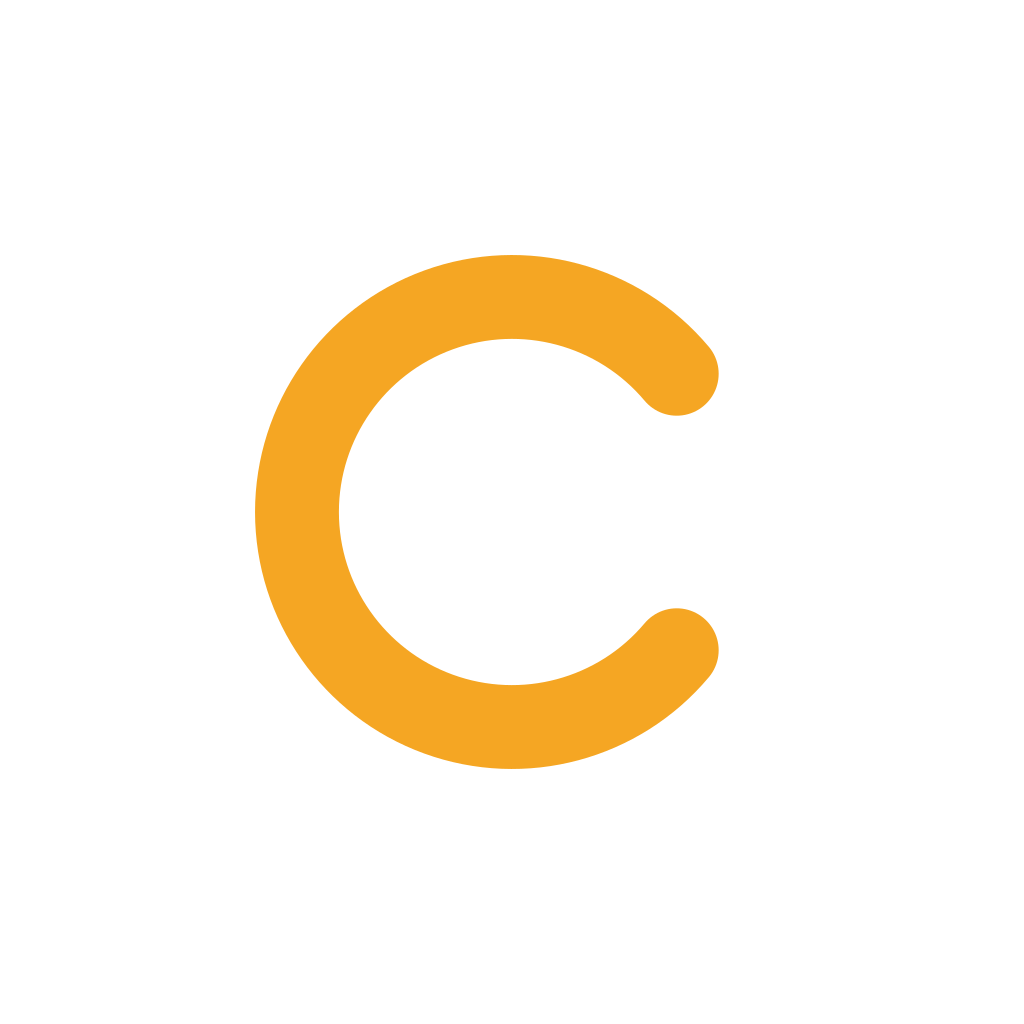
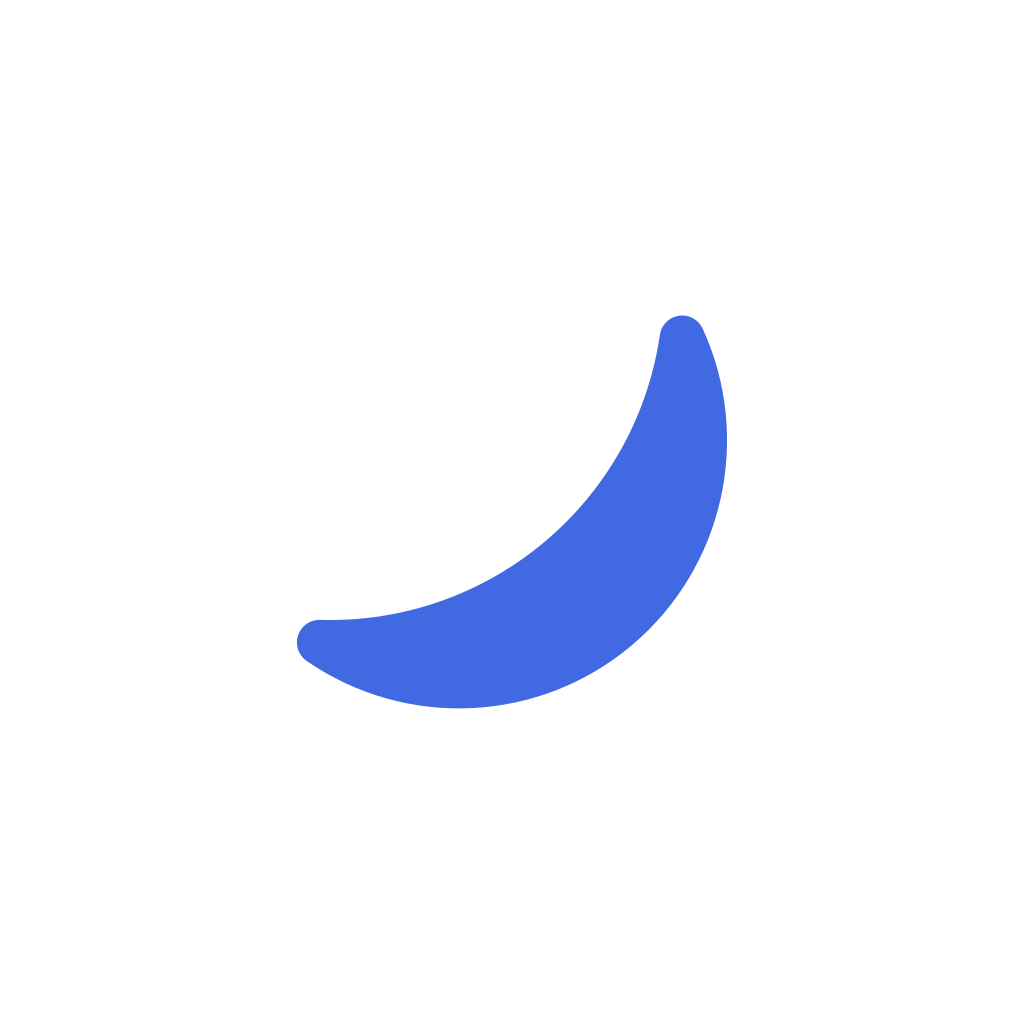
The mark is a banana now, not a C
The old mark was an open ring cut on the right, drawn when the product
was called CreatorDesk. The rename left a wordmark reading "blubanana"
sitting beside a C, which is a mark working against its own name.

It is a banana, in royal blue: two arcs sharing their endpoints, the
inner one with the larger radius so it is flatter and the blade is
thick through the middle and tapers to the tips. That second radius is
the whole difference between a banana and a crescent moon; with both
radii equal this reads as a moon, which is what the first attempt did.

Geometry rather than a letter, for the reason the old generator already
gave: text in an SVG depends on the fonts of whatever machine
rasterises it. The website favicon had ignored that and set the letter
b in `system-ui`, so the tab icon was whatever font the visitor's
operating system supplied, in a blue that predated the royal blue.

Details that came out of looking at it rendered rather than reasoning
about it:

  * The tilt is baked into the endpoints instead of applied as a
    transform. A circular arc is rotation-invariant, so this is exact
    to the pixel, and it drops a `transform-origin` DOM warning that
    react-native-svg's rotation props logged on every render.
  * The stroke is the same colour as the fill and exists only for its
    round join. Needle tips turn to dust at 16px; blunt ones survive.
  * The viewBox is the tilted shape's measured bounding box. The banana
[…]

Changed region(s): [[0.25, 0.25, 0.7188, 0.75]]

diff --git a/platform/components/ui/Mark.tsx b/platform/components/ui/Mark.tsx
@@ -7,35 +7,104 @@ export interface MarkProps {
 }
 
 /**
- * The Blubanana mark: an open ring, cut on the right.
+ * The Blubanana mark: a banana, in royal blue.
  *
- * Reads as a C, but the opening is the point: this is a product about a
- * business loop that does not close on its own.
+ * It replaces an open ring that read as a C, drawn when the product was called
+ * CreatorDesk and left behind by the rename. A wordmark reading "blubanana"
+ * beside a C is a mark working against its own name.
  *
- * The single source of truth for the mark inside the app. The same geometry is
- * generated as PNGs by `scripts/generate-icons.mjs` (app icon, splash,
- * favicon) and inlined into the invoice PDF by `lib/invoiceHtml.ts`. Those
- * three are separate implementations because they render in three environments
- * that share no runtime, but they draw the same arc, from the same numbers,
- * and if one changes the others must too.
+ * Two arcs sharing their endpoints. The inner arc has the *larger* radius, so
+ * it is the flatter of the two and the blade is thick through the middle and
+ * tapers to the tips. That second radius is the whole difference between a
+ * banana and a crescent moon: with both radii equal, this is a moon.
+ *
+ * Geometry rather than a letter, deliberately. Text in an SVG depends on the
+ * fonts of whatever machine rasterises it, so a lettered mark renders
+ * differently on another laptop or in CI. Two arcs are two arcs everywhere.
+ *
+ * The stroke is the same colour as the fill and exists only for its round
+ * join, which blunts what would otherwise be needle tips. Blunt tips survive a
+ * 16px favicon; needle points turn to dust.
+ *
+ * The single source of truth for the mark inside the app. The same numbers are
+ * rasterised to PNGs by `scripts/generate-icons.mjs` (app icon, splash,
+ * favicon), inlined into the invoice PDF by `lib/invoiceHtml.ts`, and drawn
+ * for the website favicon in `website/build.mjs`. Those four are separate
+ * implementations because they render in four environments that share no
+ * runtime, but they draw one shape from one set of numbers, and if any
+ * constant here changes, all four must.
  */
-export function Mark({ size = 24, color = Colors.light.accent }: MarkProps) {
-  const centre = size / 2
-  const radius = size / 2 - size * 0.11
-  // 80° gap centred on the right: the arc runs from +40° to −40° the long way.
-  const gap = (40 * Math.PI) / 180
-  const x = centre + radius * Math.cos(gap)
-  const yTop = centre - radius * Math.sin(gap)
-  const yBottom = centre + radius * Math.sin(gap)
 
+/** Distance between the two tips, in the 100-unit space the path is drawn in. */
+const CHORD = 84
+/** How far the outer edge bows off the line joining the tips. */
+const OUTER_RISE = 32
+/** The same for the inner edge. The difference between them is the thickness. */
+const INNER_RISE = 16
+/** Blunts the cusps. Same colour as the fill; a join, not an outline. */
+const BLUNT = 8
+
+/**
+ * The tilt, already applied to the endpoints below.
+ *
+ * A circular arc is rotation-invariant: turning it moves the endpoints and
+ * leaves the radii and the flags alone. So the banana lies diagonally, the way
+ * a banana sits rather than as a smile, without a transform anywhere. That
+ * matters beyond tidiness — react-native-svg's rotation props emit a
+ * `transform-origin` attribute that React rejects on the web build, so the
+ * transform version logged a DOM warning on every render.
+ */
+const TILT_DEGREES = -40
+
+/**
+ * The tilted shape's bounding box, used as the viewBox.
+ *
+ * Measured by sampling both arcs and taking the extremes, not guessed. The
+ * banana is drawn low and to one side of its own 100-unit box and the tilt
+ * moves it further, so a plain `0 0 100 100` viewBox parked it in the
+ * bottom-right corner of every icon. Recompute if the constants above change.
+ */
+const VIEW_BOX = '21.54 28.2 76.3 69.7'
+
+/** Radius of a circular arc spanning `chord` and rising `rise` off it. */
+function radiusFor(chord: number, rise: number): number {
+  return ((chord * chord) / 4 + rise * rise) / (2 * rise)
+}
+
+function tilt(x: number, y: number): [number, number] {
+  const radians = (TILT_DEGREES * Math.PI) / 180
+  const cos = Math.cos(radians)
+  const sin = Math.sin(radians)
+  return [
+    50 + (x - 50) * cos - (y - 50) * sin,
+    50 + (x - 50) * sin + (y - 50) * cos,
+  ]
+}
+
+/** The mark as an SVG path string, tilt included. */
+export function markPath(): string {
+  const [x0, y0] = tilt(50 - CHORD / 2, 62)
+  const [x1, y1] = tilt(50 + CHORD / 2, 62)
+  const outer = radiusFor(CHORD, OUTER_RISE).toFixed(2)
+  const inner = radiusFor(CHORD, INNER_RISE).toFixed(2)
+  const p = (n: number) => n.toFixed(2)
+  return [
+    `M ${p(x0)} ${p(y0)}`,
+    `A ${outer} ${outer} 0 0 0 ${p(x1)} ${p(y1)}`,
+    `A ${inner} ${inner} 0 0 1 ${p(x0)} ${p(y0)}`,
+    'Z',
+  ].join(' ')
+}
+
+export function Mark({ size = 24, color = Colors.light.accent }: MarkProps) {
   return (
-    <Svg width={size} height={size}>
+    <Svg width={size} height={size} viewBox={VIEW_BOX}>
       <Path
-        d={`M ${x} ${yTop} A ${radius} ${radius} 0 1 0 ${x} ${yBottom}`}
+        d={markPath()}
+        fill={color}
         stroke={color}
-        strokeWidth={size * 0.16}
-        fill="none"
-        strokeLinecap="round"
+        strokeWidth={BLUNT}
+        strokeLinejoin="round"
       />
     </Svg>
   )

diff --git a/platform/lib/invoiceHtml.ts b/platform/lib/invoiceHtml.ts
@@ -86,15 +86,17 @@ export function amountInWords(amount: number): string {
   return `${parts.join(' ')} ${n === 1 ? 'Rupee' : 'Rupees'} Only`
 }
 
-/** The Blubanana mark, as inline SVG so the PDF needs no image asset. */
+/**
+ * The Blubanana mark, as inline SVG so the PDF needs no image asset.
+ *
+ * Same shape and same numbers as `components/ui/Mark.tsx`, which carries the
+ * explanation: two arcs sharing their tips, the inner one flatter, with the
+ * -40 degree tilt already applied to the endpoints. Not imported from there,
+ * because this string is handed to a PDF renderer rather than to React.
+ */
 function markSvg(size: number, color: string): string {
-  const c = size / 2
-  const r = size / 2 - size * 0.11
-  const gap = (40 * Math.PI) / 180
-  const x = (c + r * Math.cos(gap)).toFixed(2)
-  const yTop = (c - r * Math.sin(gap)).toFixed(2)
-  const yBottom = (c + r * Math.sin(gap)).toFixed(2)
-  return `<svg width="${size}" height="${size}" viewBox="0 0 ${size} ${size}" xmlns="http://www.w3.org/2000/svg"><path d="M ${x} ${yTop} A ${r.toFixed(2)} ${r.toFixed(2)} 0 1 0 ${x} ${yBottom}" fill="none" stroke="${color}" stroke-width="${(size * 0.16).toFixed(2)}" stroke-linecap="round"/></svg>`
+  const d = 'M 25.54 86.19 A 43.56 43.56 0 0 0 89.89 32.20 A 63.13 63.13 0 0 1 25.54 86.19 Z'
+  return `<svg width="${size}" height="${size}" viewBox="21.54 28.2 76.3 69.7" xmlns="http://www.w3.org/2000/svg"><path d="${d}" fill="${color}" stroke="${color}" stroke-width="8" stroke-linejoin="round"/></svg>`
 }
 
 export function buildInvoiceHtml(
